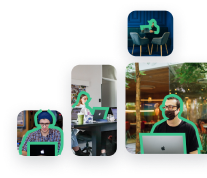
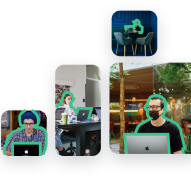
2
2

diff --git a/assets/css/getExperience.scss b/assets/css/getExperience.scss
@@ -13,10 +13,6 @@
         display: flex;
         overflow: hidden;
         justify-content: space-between;
-        .experience-content__second-mobile-image {
-            position: relative;
-            right: 20px;
-        }
     }
 }
 
